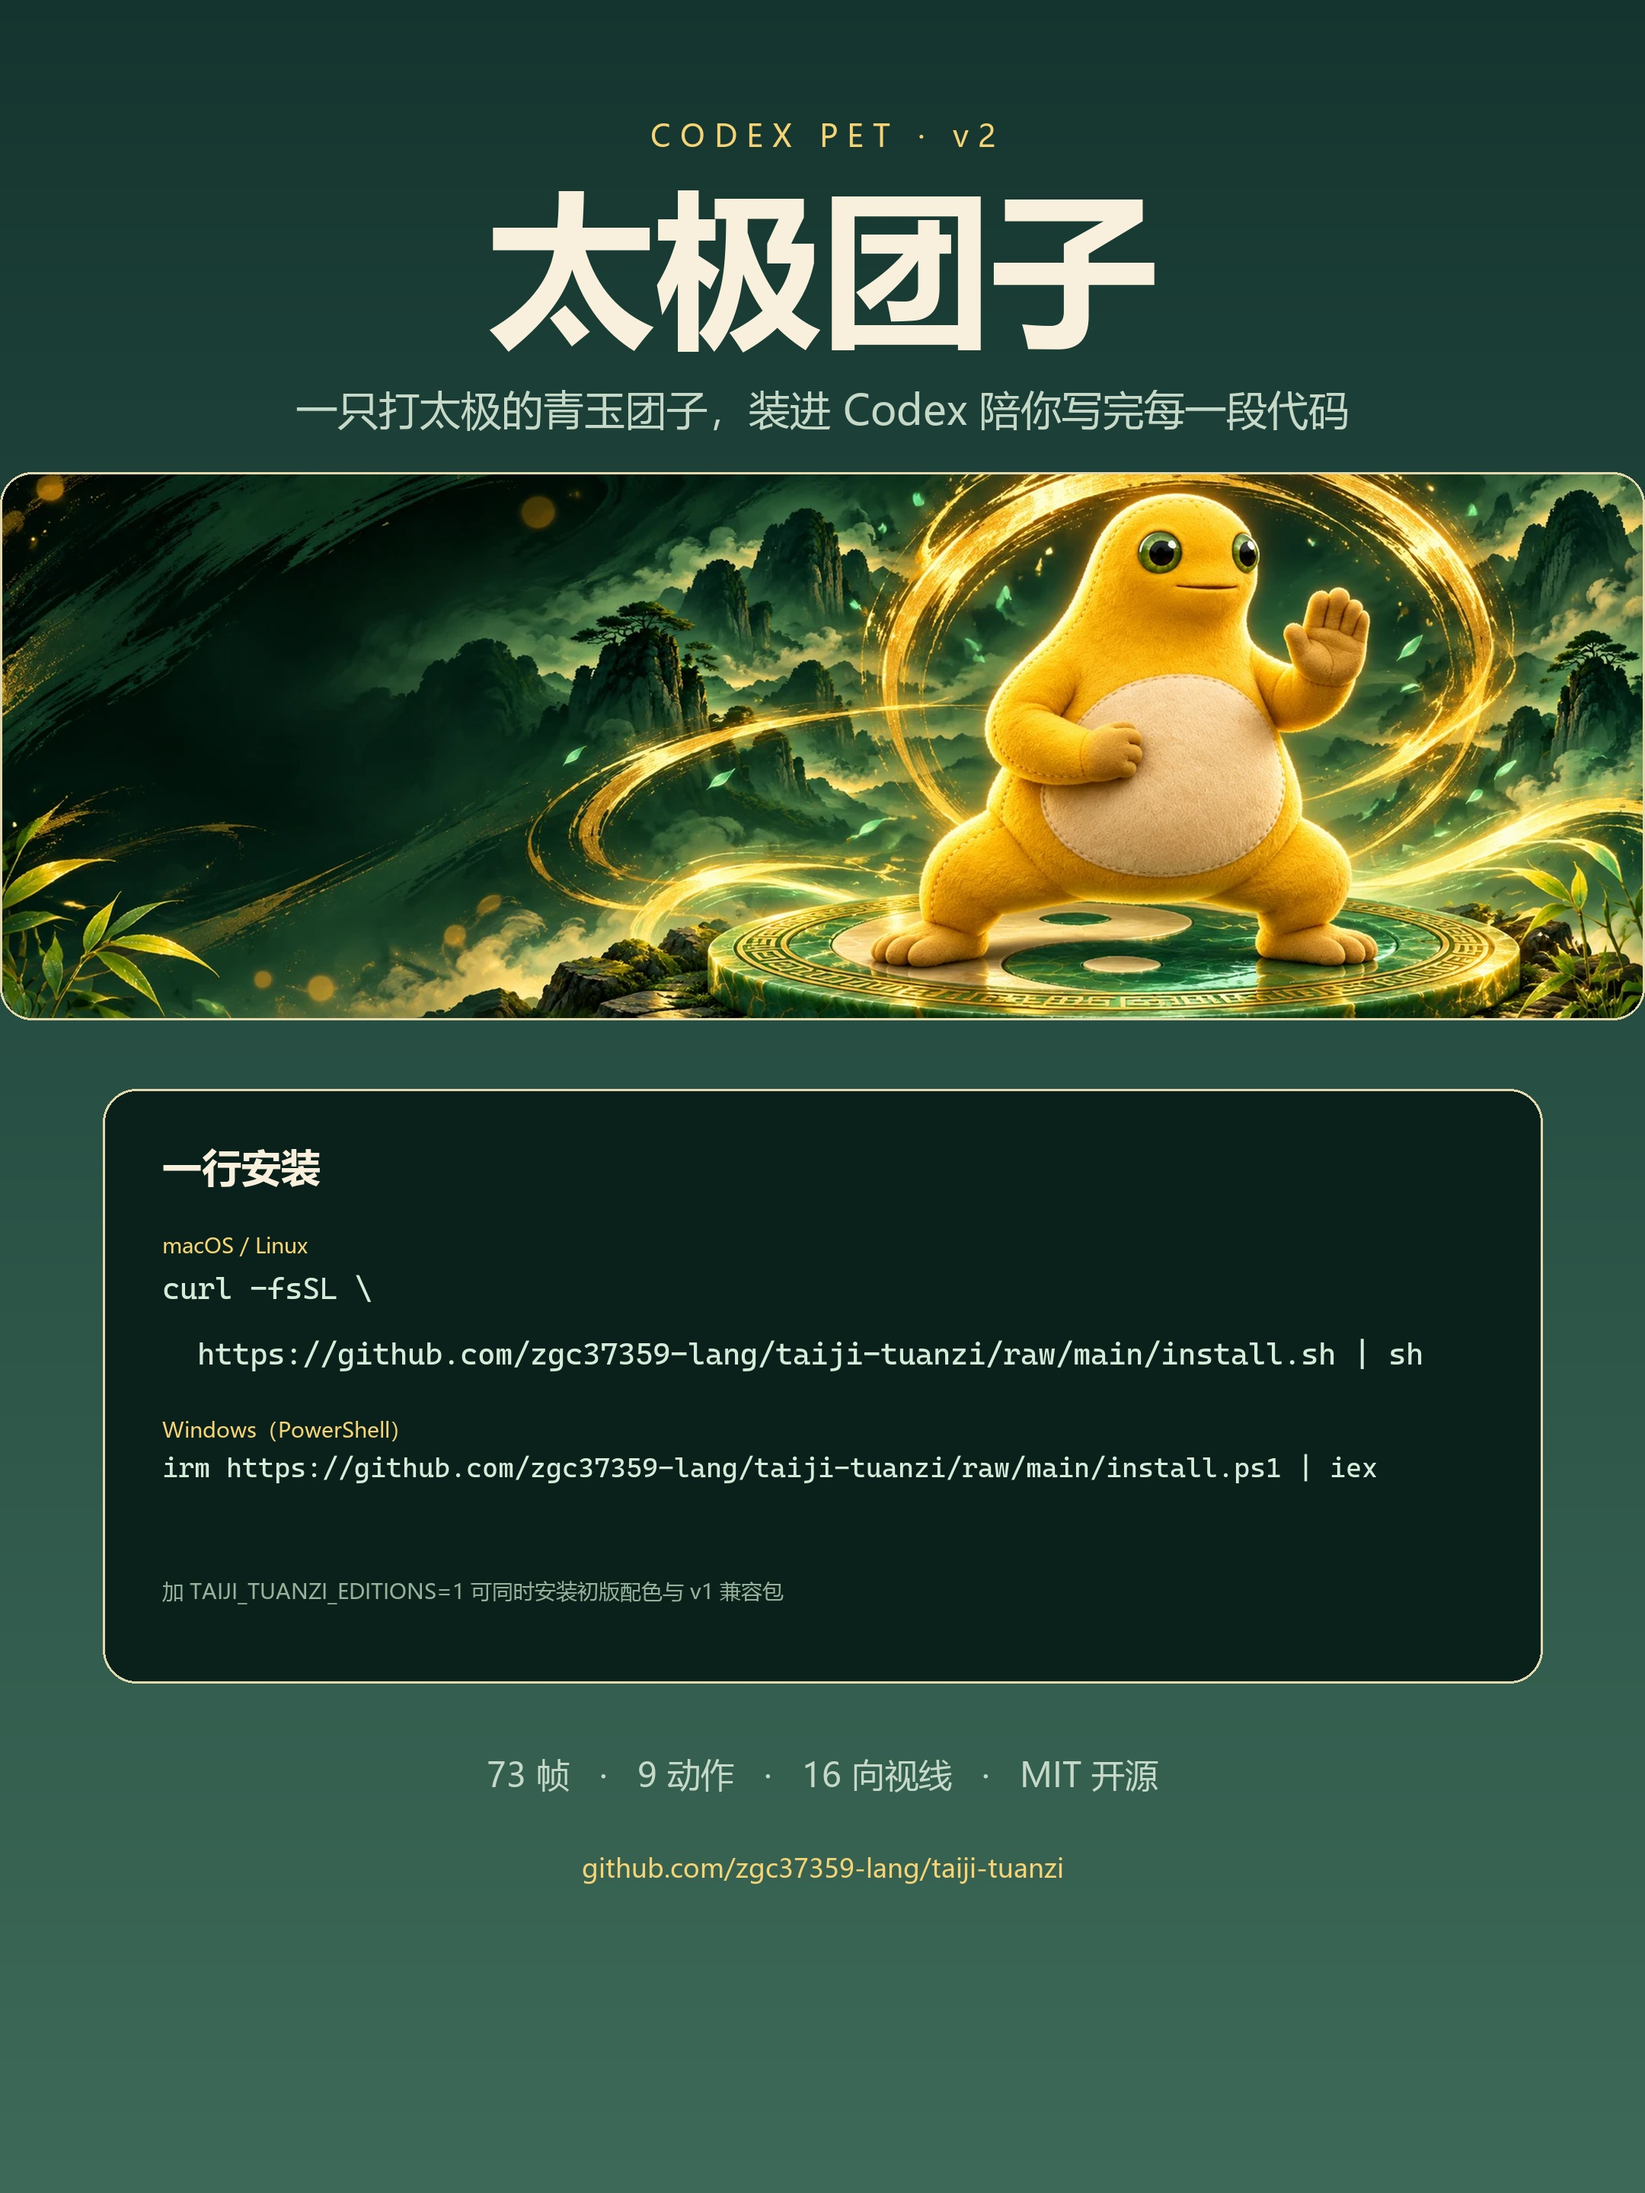
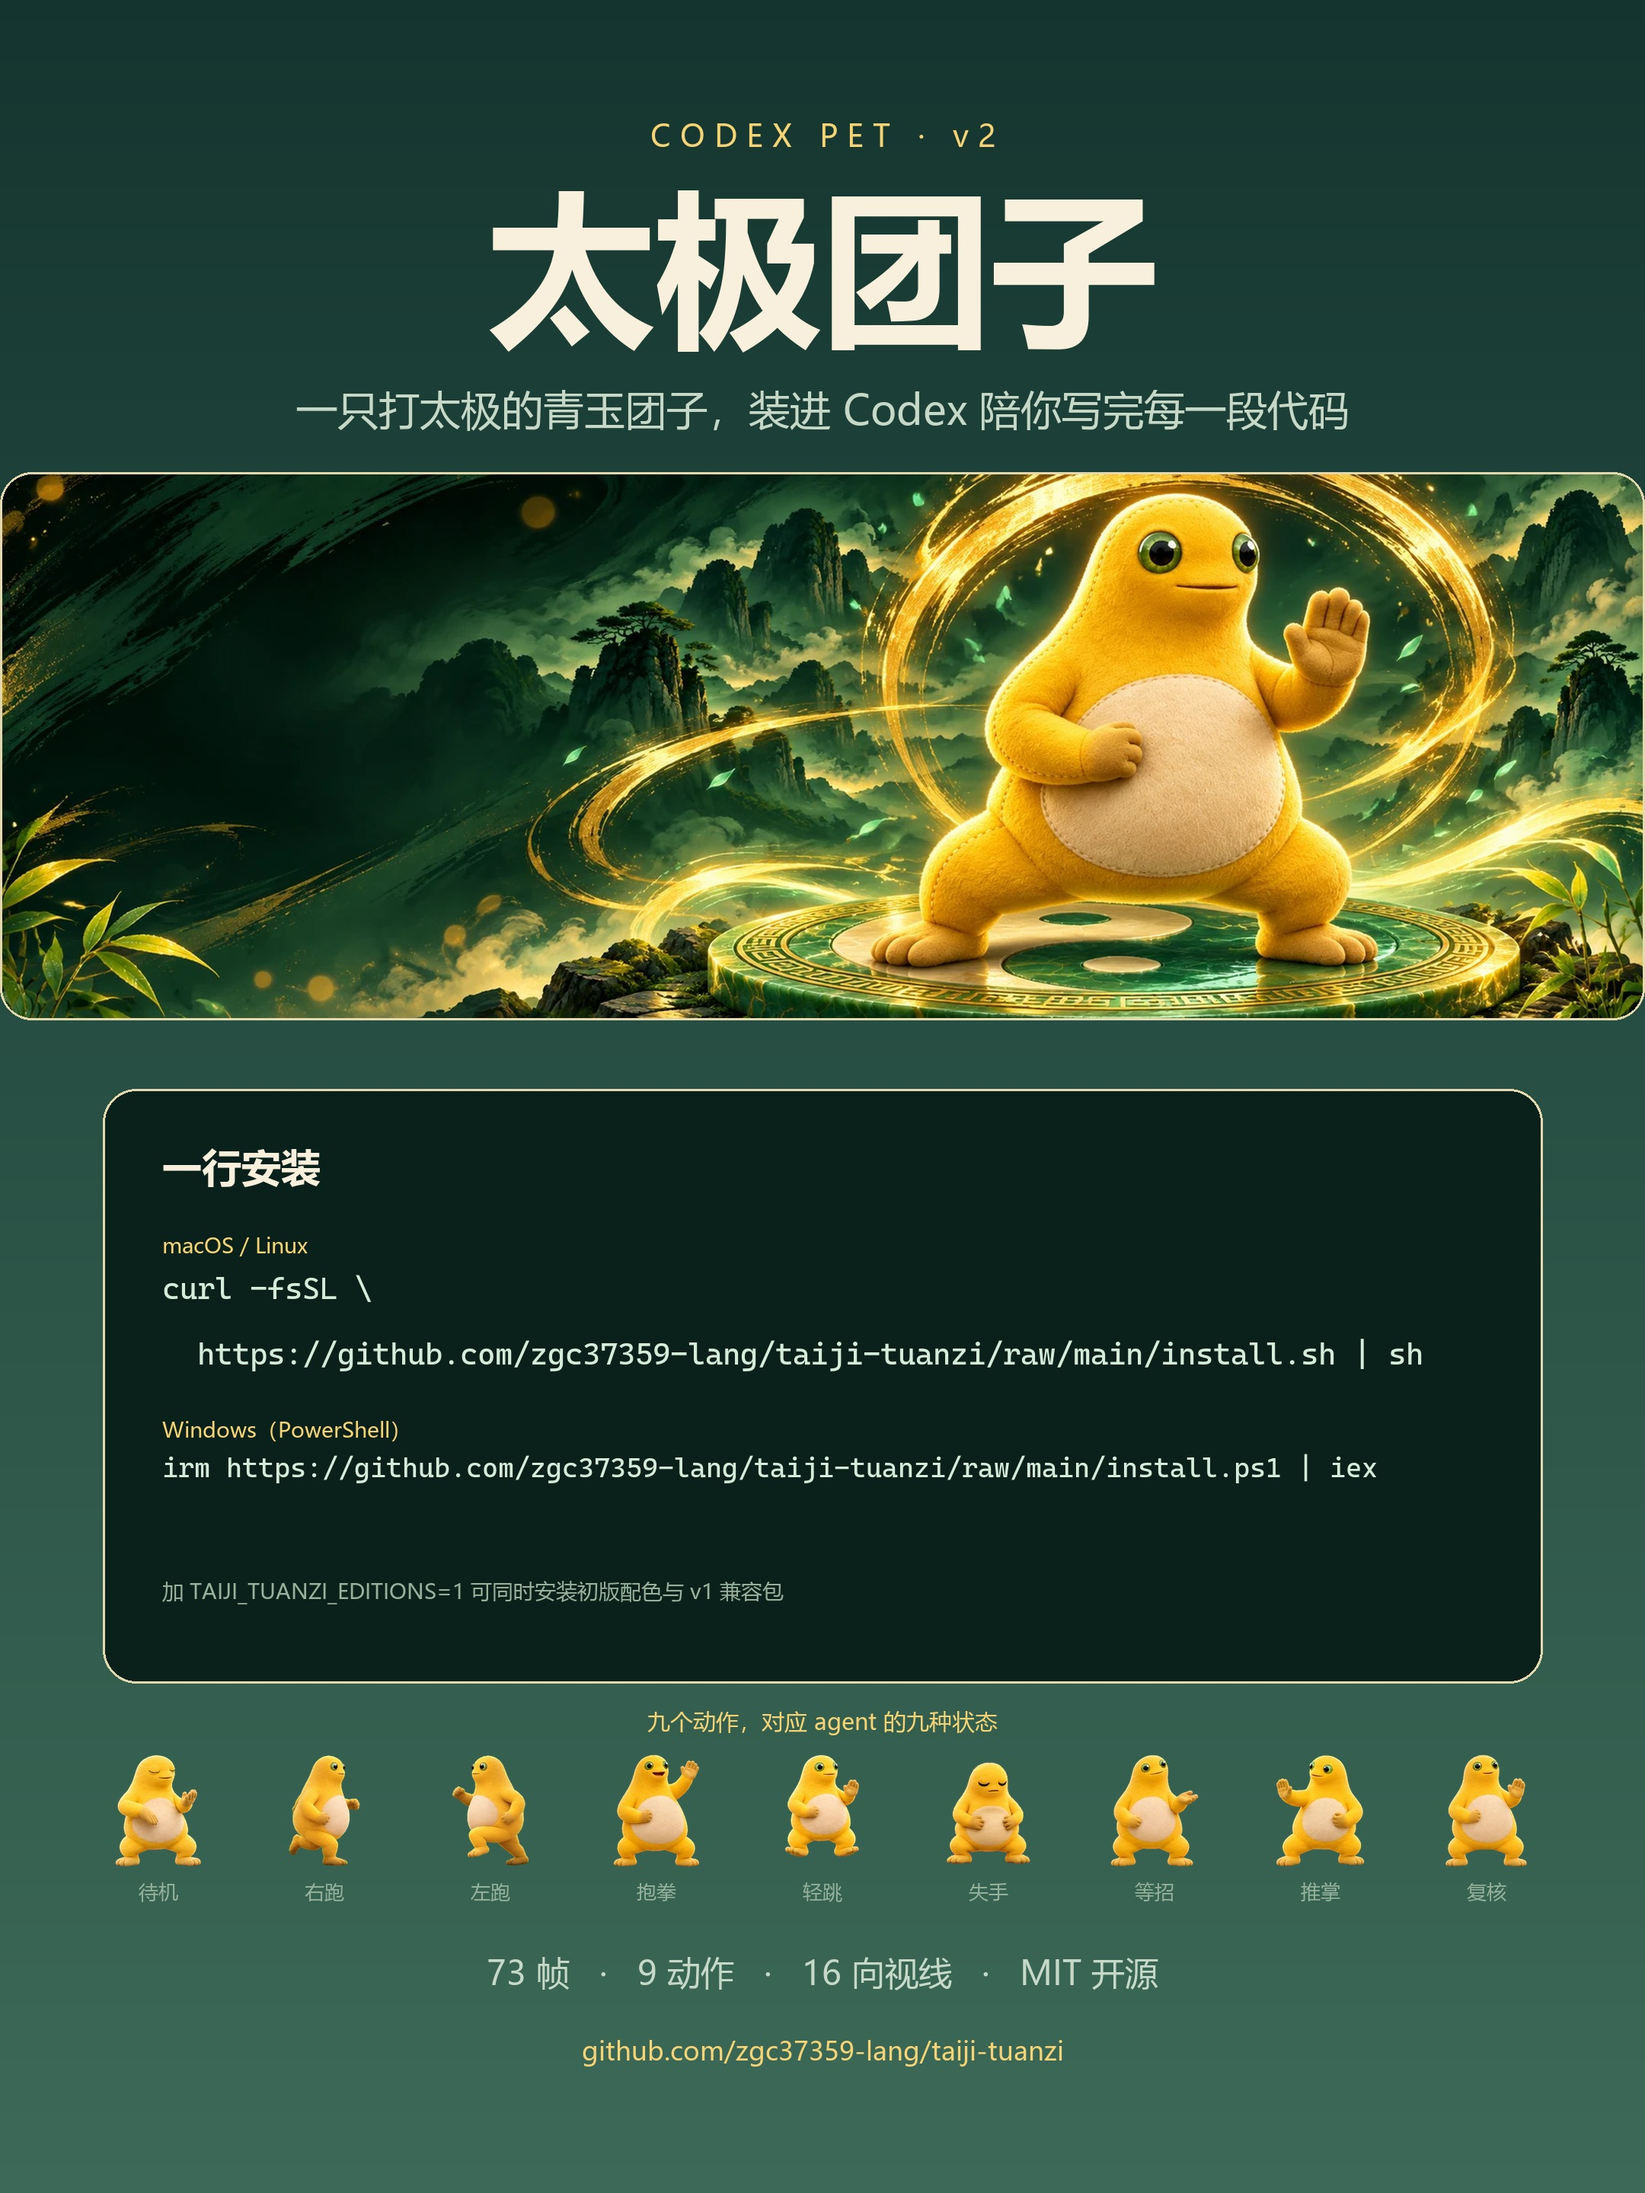
feat: 分享图底部增加九动作缩略条
- 每行取一个代表性帧，0.75 倍整数缩放（192→144 / 208→156），不变形
- 九格等距铺满，各配两字动作名
- 上移特征与页脚，为动作条让出空间

diff --git a/scripts/build-share-image.py b/scripts/build-share-image.py
@@ -37,6 +37,24 @@ BANNER_Y = 620
 BANNER_H = 720
 BANNER_RADIUS = 42
 
+# 底部动作条：名称、行号、代表性帧。0.75 倍缩放，192→144 / 208→156 均为整数。
+ACTIONS = [
+    ("待机", 0, 3),
+    ("右跑", 1, 4),
+    ("左跑", 2, 6),
+    ("抱拳", 3, 2),
+    ("轻跳", 4, 2),
+    ("失手", 5, 4),
+    ("等招", 6, 3),
+    ("推掌", 7, 3),
+    ("复核", 8, 3),
+]
+STRIP_SCALE = 0.75
+STRIP_CELL_W = round(192 * STRIP_SCALE)
+STRIP_CELL_H = round(208 * STRIP_SCALE)
+STRIP_GAP = 74
+STRIP_TOP = 2300
+
 
 def gradient(size, top, bottom):
     img = Image.new("RGB", size, top)
@@ -143,8 +161,29 @@ def main():
         fill=MUTED,
     )
 
-    centered(draw, 2300, "73 帧   ·   9 动作   ·   16 向视线   ·   MIT 开源", feet_font, SUB)
-    centered(draw, 2430, "github.com/zgc37359-lang/taiji-tuanzi", foot_font, GOLD)
+    centered(draw, 2240, "九个动作，对应 agent 的九种状态", ImageFont.truetype(REGULAR, 30, index=0), GOLD)
+
+    # 动作条
+    sheet = Image.open(ROOT / "spritesheet.webp").convert("RGBA")
+    strip_font = ImageFont.truetype(REGULAR, 26, index=0)
+    total_w = len(ACTIONS) * STRIP_CELL_W + (len(ACTIONS) - 1) * STRIP_GAP
+    start_x = (W - total_w) // 2
+    for index, (label, row, col) in enumerate(ACTIONS):
+        frame = sheet.crop(
+            (col * 192, row * 208, (col + 1) * 192, (row + 1) * 208)
+        ).resize((STRIP_CELL_W, STRIP_CELL_H), Image.LANCZOS)
+        x = start_x + index * (STRIP_CELL_W + STRIP_GAP)
+        canvas.alpha_composite(frame, (x, STRIP_TOP))
+        label_w = strip_font.getlength(label)
+        draw.text(
+            (x + (STRIP_CELL_W - label_w) / 2, STRIP_TOP + STRIP_CELL_H + 10),
+            label,
+            font=strip_font,
+            fill=MUTED,
+        )
+
+    centered(draw, 2560, "73 帧   ·   9 动作   ·   16 向视线   ·   MIT 开源", feet_font, SUB)
+    centered(draw, 2670, "github.com/zgc37359-lang/taiji-tuanzi", foot_font, GOLD)
 
     OUT_DIR.mkdir(parents=True, exist_ok=True)
     big = OUT_DIR / "vertical-2160x2880.png"
